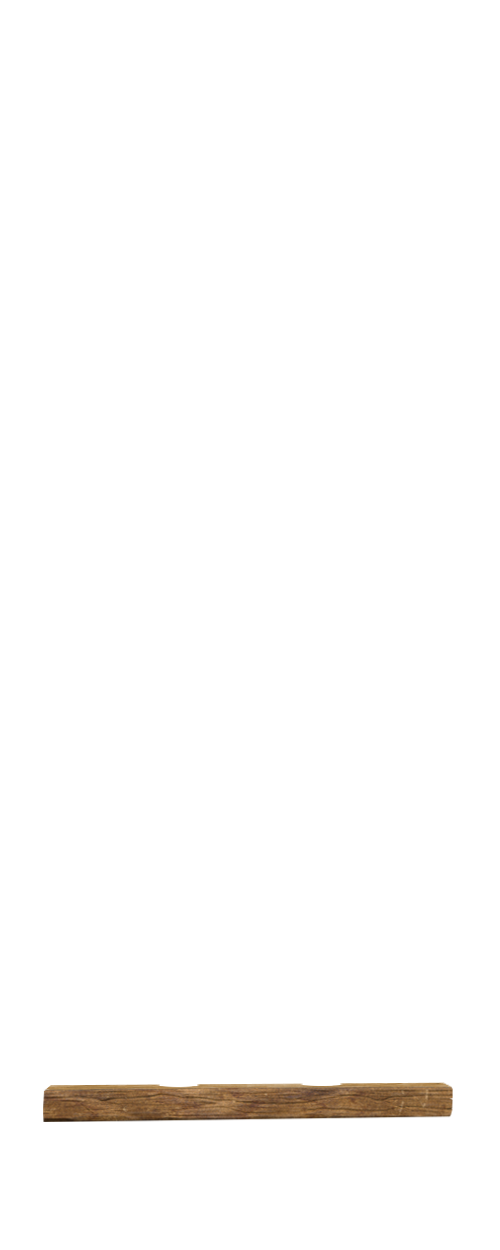
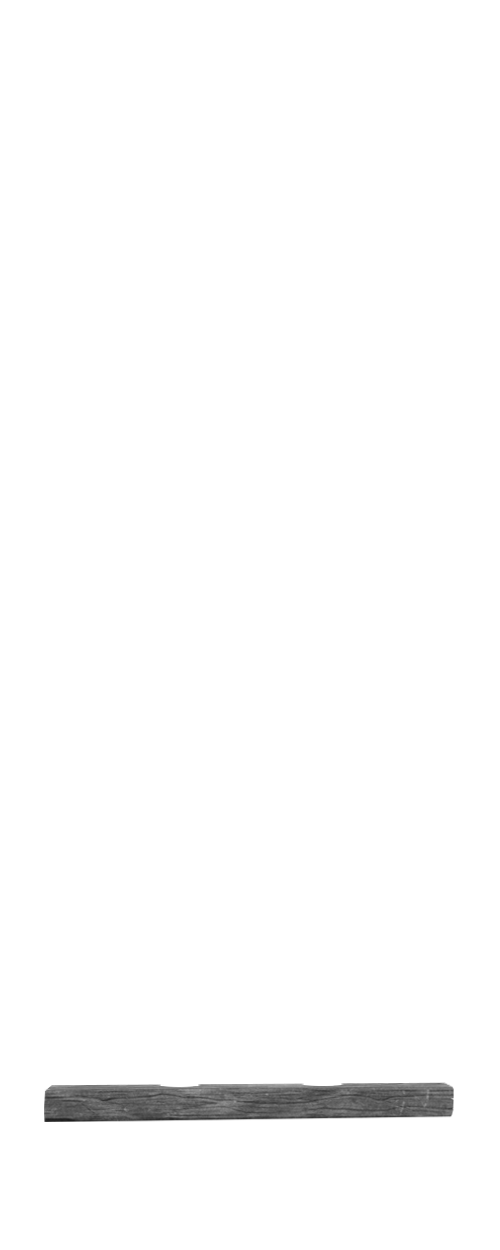
Fix: Medieval rack fixes (#3501)
* Created WoodenRack Asset

Added Frame art
Added Color Layers
Added Dialog
Added Asset
Added Asset Extended Config (TODO)

* Added Restraint functionality & art, Fixes

* Added: 2layer stocks Fix: Priority Removed:Stocks2

TODO
Fix every single chain asset

* Updated Chains

* Uploaded all the needed assets. Mainly done

* Updated price

* Small fixes

* Removed wrong effect and format fixes

* Uppercase fix

* Removed Stains module. Renamed assets acordingly

* Difficulty changed for all the asset. Added Time

* Fixed dialog Name error

* Small dialog fix

* Identation fixes, added OverrideHeight

* Added AllowLock to Modules

* Removed uneeded lines

* Added the ability to color the wood frame and bed

* Added colorable metal.

* Metal layer fix

* Fixed stock coloring, added: Coloring group top stocks

Changed region(s): [[0.09, 0.8424, 0.93, 0.9048]]

diff --git a/BondageClub/Assets/Female3DCG/Female3DCG.js b/BondageClub/Assets/Female3DCG/Female3DCG.js
@@ -6613,30 +6613,32 @@ var AssetFemale3DCG = [
 				]
 			},
 			{
-				Name: "WoodenRack", Value: 180, Priority: 1, Difficulty: 0, RemoveTime: 5, Time: 5, SelfBondage: 0, Random: false, RemoveAtLogin: true, DefaultColor: ["#866949", "#875D37", "#372D24", "#BB895D", "Default"], Extended: true, AlwaysExtend: true, BuyGroup: "WoodenRack",
+				Name: "WoodenRack", Value: 180, Priority: 1, Difficulty: 0, RemoveTime: 5, Time: 5, SelfBondage: 0, Random: false, RemoveAtLogin: true, DefaultColor: ["#866949", "#875D37", "#63605F", "#372D24", "#BB895D", "Default", "#875D37", "#875D37"], Extended: true, AlwaysExtend: true, BuyGroup: "WoodenRack",
 				OverrideHeight: { Height: 0, HeightRatioProportion: 1, Priority: 21 },
 				Effect: ["Freeze", "Mounted", "OnBed"],
 				Prerequisite: ["AllFours", "NotSuspended", "NotHogtied"],
 				SetPose: ["BaseLower"],
 				Block: ["ItemAddon"],
 				Layer: [
-					{ Name: "Back", HasType: false, AllowModuleTypes: ["f0", "f1"] },
+					{ Name: "Back", HasType: false, ColorGroup: "Wood", AllowModuleTypes: ["f0", "f1"] },
 					{ Name: "HalfBack", HasType: false, CopyLayerColor: "Back", AllowModuleTypes: ["f2"] },
 					{ Name: "NoBack", HasType: false, AllowColorize: false, AllowModuleTypes: ["f3"], HasImage: false },
-					{ Name: "FrameWood", HasType: false, AllowColorize: true },
-					{ Name: "FrameMetal", HasType: false, AllowColorize: false },
+					{ Name: "FrameWood", HasType: false, ColorGroup: "Wood" },
+					{ Name: "FrameMetal", HasType: false, AllowColorize: true },
 					{ Name: "FrameStains", HasType: false, AllowModuleTypes: ["f1"] },
 					{ Name: "TopRopes", HasType: false, AllowModuleTypes: ["t1"], Priority: 50 },
 					{ Name: "TopRopesTight", HasType: false, CopyLayerColor: "TopRopes", AllowModuleTypes: ["t2"], Priority: 50 },
 					{ Name: "TopChains", HasType: false, AllowModuleTypes: ["t3"],Priority: 30 },
 					{ Name: "TopChainsTight", HasType: false, CopyLayerColor: "TopChains",AllowModuleTypes: ["t4"], Priority: 30 },
+					{ Name: "TopStocksBack", HasType: false, ColorGroup: "Wood", AllowModuleTypes: ["t5"] },
+					{ Name: "TopStocks", HasType: false, CopyLayerColor: "TopStocksBack", AllowModuleTypes: ["t5"], Priority: 50 },
 					{ Name: "BotRings", HasType: false, CopyLayerColor: "TopChains",AllowModuleTypes: ["b1", "b2"]},
 					{ Name: "BotRopes", HasType: false, CopyLayerColor: "TopRopes",AllowModuleTypes: ["b1"], Priority: 50 },
 					{ Name: "BotRopesTogether", HasType: false, CopyLayerColor: "TopRopes",AllowModuleTypes: ["b2"], Priority: 50 },
 					{ Name: "BotChains", HasType: false, CopyLayerColor: "TopChains", AllowModuleTypes: ["b3"]},
 					{ Name: "BotChainsTogether", HasType: false, CopyLayerColor: "TopChains", AllowModuleTypes: ["b4"]},
-					{ Name: "BotStocksBack", HasType: false, AllowColorize: false, AllowModuleTypes: ["b5"] },
-					{ Name: "BotStocks", HasType: false, AllowColorize: false, AllowModuleTypes: ["b5"], Priority: 50 },
+					{ Name: "BotStocksBack", HasType: false, ColorGroup: "Wood", AllowModuleTypes: ["b5"] },
+					{ Name: "BotStocks", HasType: false, CopyLayerColor: "BotStocksBack", AllowModuleTypes: ["b5"], Priority: 50 },
 				]
 			},
 			{

diff --git a/BondageClub/Assets/Female3DCG/Female3DCGExtended.js b/BondageClub/Assets/Female3DCG/Female3DCGExtended.js
@@ -3034,6 +3034,15 @@ var AssetFemale3DCGExtended = {
 										Effect: ["Prone", "Freeze", "Block", "BlockKneel", "Mounted"],
 									},
 								}, // t4 - ChainsTight
+								{
+									AllowLock: true,
+									Property: {
+										Difficulty: 12,
+										SetPose: ["Yoked"],
+										Block: ["ItemArms"],
+										Effect: ["Prone", "Freeze", "BlockKneel", "Mounted"],
+									},
+								}, // t5 - Stocks
 							],
 					},
 					{
